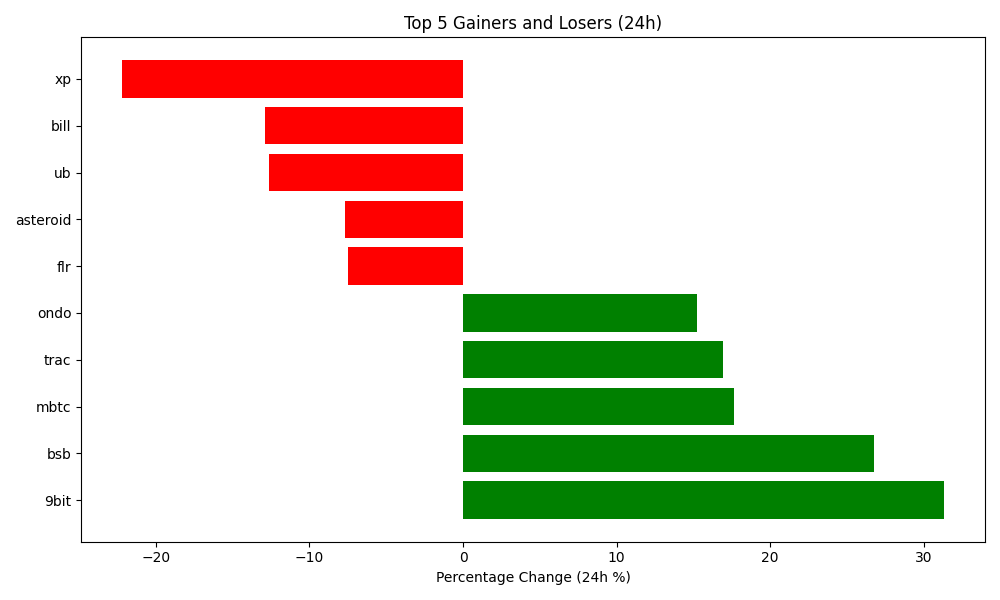
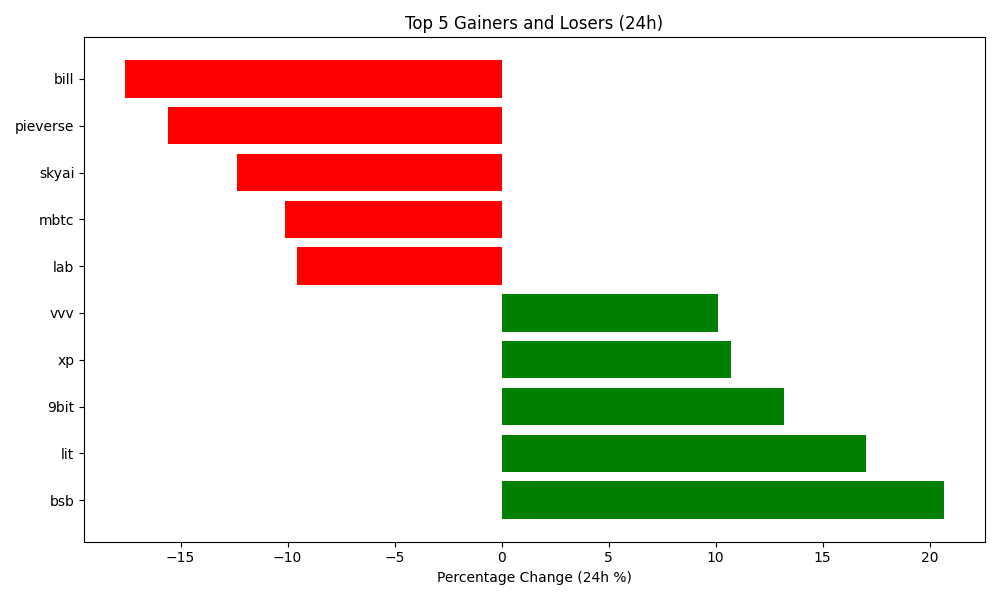
Auto-update crypto data and plot

diff --git a/README.md b/README.md
@@ -4,7 +4,7 @@ Author: Hitesh Agrawal
 This repository automatically tracks the top 5 gaining, top 5 losing, and top 5 highest volume cryptocurrencies in the last 24 hours using the CoinGecko API, Python, Matplotlib, and GitHub Actions updates the below content everyday at midnight.
 
 <!-- START_DYNAMIC_CONTENT -->
-Last updated: 2026-05-19 02:37 UTC
+Last updated: 2026-05-20 02:37 UTC
 
 ![Crypto Movers Plot](crypto_movers_plot.png)
 
@@ -12,33 +12,33 @@ Last updated: 2026-05-19 02:37 UTC
 
 | Rank | Coin | Price Change (24h %) | Volume (USD) | Current Price (USD) |
 | :--: | :--: | :------------------: | :----------: | :-----------------: |
-| 1 | 9bit | 31.31% | $11,016,559 | $0.0341 |
-| 2 | bsb | 26.77% | $31,668,195 | $0.6777 |
-| 3 | mbtc | 17.65% | $39,351 | $0.1887 |
-| 4 | trac | 16.95% | $116,416,095 | $0.3785 |
-| 5 | ondo | 15.20% | $220,179,481 | $0.3925 |
+| 1 | bsb | 20.68% | $86,032,685 | $0.8197 |
+| 2 | lit | 17.04% | $52,359,744 | $1.1600 |
+| 3 | 9bit | 13.20% | $10,678,326 | $0.0386 |
+| 4 | xp | 10.74% | $3,023,222 | $0.0533 |
+| 5 | vvv | 10.13% | $101,006,033 | $16.3300 |
 
 
 **👇 Top 5 Losers (24h)**
 
 | Rank | Coin | Price Change (24h %) | Volume (USD) | Current Price (USD) |
 | :--: | :--: | :------------------: | :----------: | :-----------------: |
-| 1 | xp | -22.19% | $3,161,308 | $0.0481 |
-| 2 | bill | -12.88% | $150,681,974 | $0.1353 |
-| 3 | ub | -12.62% | $19,389,455 | $0.1349 |
-| 4 | asteroid | -7.71% | $14,749,844 | $0.0003 |
-| 5 | flr | -7.52% | $3,803,184 | $0.0083 |
+| 1 | bill | -17.60% | $115,042,406 | $0.1104 |
+| 2 | pieverse | -15.59% | $11,572,886 | $0.7180 |
+| 3 | skyai | -12.38% | $35,380,659 | $0.2781 |
+| 4 | mbtc | -10.14% | $23,485 | $0.1691 |
+| 5 | lab | -9.54% | $138,362,785 | $4.3000 |
 
 
 **💎 Top 5 by Trade Volume (24h)**
 
 | Rank | Coin | Price Change (24h %) | Volume (USD) | Current Price (USD) |
 | :--: | :--: | :------------------: | :----------: | :-----------------: |
-| 1 | usdt | -0.02% | $67,563,132,236 | $0.9992 |
-| 2 | btc | -0.13% | $42,407,045,791 | $76,735.0000 |
-| 3 | eth | 0.57% | $17,108,297,380 | $2,126.7600 |
-| 4 | usdc | -0.01% | $15,554,370,798 | $0.9997 |
-| 5 | sol | 0.07% | $2,896,350,602 | $84.9600 |
+| 1 | usdt | -0.02% | $47,209,848,783 | $0.9990 |
+| 2 | btc | -0.17% | $27,788,194,648 | $76,600.0000 |
+| 3 | usdc | -0.00% | $12,136,365,204 | $0.9997 |
+| 4 | eth | -0.90% | $11,809,665,572 | $2,107.1800 |
+| 5 | sol | -1.05% | $1,971,304,599 | $84.0900 |
 
 
 <!-- END_DYNAMIC_CONTENT -->
